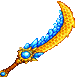
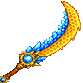
Swing the Honeycrystal Cutlass from its grip, not its pommel tip
Terraria pivots a swung sword on the bottom corner of its sprite, which on
this blade is the very end of the pommel, so the character looked like it
was pinching the tip.

ModifyItemDraw walks the draw origin 8px up the blade. The origin is in
texture space, so the offset rotates with the swing on its own; it is
mirrored by player.direction for left swings and by gravDir for reversed
gravity, matching the axes the sprite itself is flipped on.

Sprite also resampled 77x77 -> 83x83 from the original 128x128 art.

Claude-Session: https://claude.ai/code/session_01FHnxPWMUk4jGSJVdfvkVF7

Changed region(s): [[0.1558, 0.0, 0.987, 0.9091], [0.0, 0.8312, 0.1818, 1.0], [0.8312, 0.4416, 0.8571, 0.4675]]

diff --git a/Content/Items/HoneycrystalCutlass.cs b/Content/Items/HoneycrystalCutlass.cs
@@ -1,4 +1,6 @@
+using Microsoft.Xna.Framework;
 using Terraria;
+using Terraria.DataStructures;
 using Terraria.GameContent.Creative;
 using Terraria.ID;
 using Terraria.ModLoader;
@@ -8,6 +10,14 @@ namespace VenninBeeMod.Content.Items
 {
     public class HoneycrystalCutlass : ModItem
     {
+        /// <summary>
+        /// How far up the blade to walk the swing pivot, in texture pixels. Terraria swings a
+        /// sword around the bottom corner of its sprite, which on this blade is the tip of the
+        /// pommel, so the character appears to pinch it by the very end. This lifts the pivot
+        /// onto the grip instead.
+        /// </summary>
+        private const float GripOffset = 8f;
+
         public override void SetStaticDefaults()
         {
             CreativeItemSacrificesCatalog.Instance.SacrificeCountNeededByItemId[Type] = 1;
@@ -20,8 +30,8 @@ namespace VenninBeeMod.Content.Items
             // Must match the texture. Terraria places a held item from the unscaled
             // texture frame size, so an oversized sprite drifts off the hand no matter
             // what Item.scale says; the sprite itself is resized instead of scaled.
-            Item.width = 77;
-            Item.height = 77;
+            Item.width = 83;
+            Item.height = 83;
             Item.useTime = 30;
             Item.useAnimation = 30;
             Item.useStyle = ItemUseStyleID.Swing;
@@ -32,6 +42,34 @@ namespace VenninBeeMod.Content.Items
             Item.autoReuse = true;
             Item.shoot = ModContent.ProjectileType<HoneycrystalShard>();
             Item.shootSpeed = 9f;
+        }
+
+        public override bool ModifyItemDraw(ref PlayerDrawSet drawInfo, ref DrawData drawData, ref DrawData? coloredDrawData, ref DrawData? glowMaskDrawData)
+        {
+            Player player = drawInfo.drawPlayer;
+
+            // The draw origin is in texture space, so this offset rides along with the swing
+            // rotation for free. It has to be mirrored on X when facing left and on Y under
+            // reversed gravity, because the sprite is flipped on exactly those axes.
+            Vector2 gripShift = new Vector2(GripOffset * player.direction, -GripOffset * player.gravDir);
+
+            drawData.origin += gripShift;
+            coloredDrawData = ShiftOrigin(coloredDrawData, gripShift);
+            glowMaskDrawData = ShiftOrigin(glowMaskDrawData, gripShift);
+
+            return true;
+        }
+
+        private static DrawData? ShiftOrigin(DrawData? data, Vector2 shift)
+        {
+            if (!data.HasValue)
+            {
+                return null;
+            }
+
+            DrawData shifted = data.Value;
+            shifted.origin += shift;
+            return shifted;
         }
 
         public override void AddRecipes()
